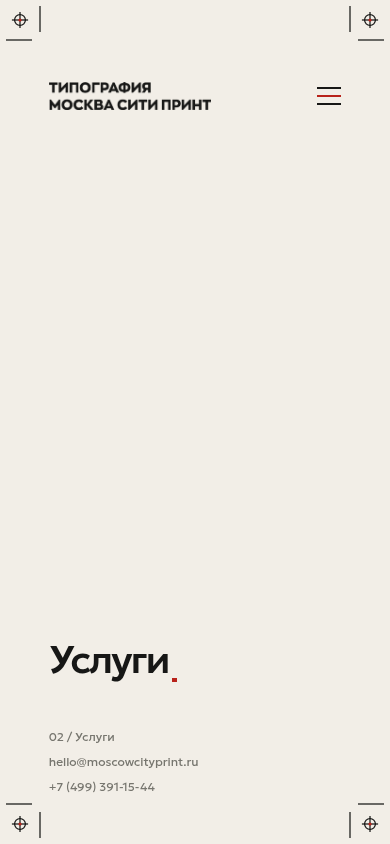
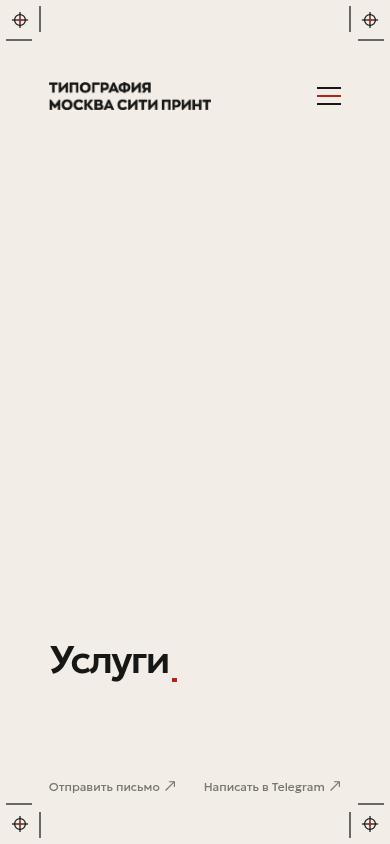
Preview final-word anchor, horizontal phone actions and lighter 1440 menu

Changed region(s): [[0.1231, 0.8626, 0.4923, 0.955], [0.6769, 0.9242, 0.8308, 0.955], [0.5231, 0.9242, 0.6462, 0.955]]

diff --git a/internal-stage-01/site-assets/assets/css/internal-screen.css b/internal-stage-01/site-assets/assets/css/internal-screen.css
@@ -21,12 +21,19 @@ body:has(.mcp-internal-screen){margin:0;background:#F2EEE7;color:#171716;font-fa
 .mcp-internal-dropdown{display:none}
 .mcp-internal-title-area{display:flex;align-items:flex-end;min-width:0;padding-block:80px 64px;container-type:inline-size}
 .mcp-internal-title{margin:0;font:500 clamp(39px,calc(75cqw / 11.59299),128px)/1.04 'Geologica',Arial,Helvetica,sans-serif;letter-spacing:-.05em;overflow-wrap:anywhere;max-width:100%}
+/* Keep the last word atomic; only words wider than the full title measure wrap inside. */
+[data-title-last-word]{display:inline-block;max-inline-size:100%;vertical-align:baseline}
 .mcp-internal-title-tail{position:relative;padding-inline-end:.215em;white-space:nowrap}
 /* One measured ink trim, expressed in em; no breakpoint-specific offsets. */
 .mcp-internal-accent{--title-ink-trim:0em;position:absolute;inset-inline-end:0;bottom:var(--title-ink-trim);display:block;width:.115em;height:.115em}
 .mcp-internal-square{display:block;flex:none;width:.115em;height:.115em;background:#B8221A}
 .mcp-internal-service{align-items:end;font-size:14px;line-height:1.25;font-weight:400;color:#77766F}
 .mcp-internal-service>*{min-width:0;overflow-wrap:anywhere}
+.mcp-internal-service-mobile{display:none}
+@media(1101px <= width < 1600px){
+ .mcp-internal-desktop-nav{column-gap:28px}
+ .mcp-internal-desktop-nav .mcp-internal-menu-item{font-size:15px;font-weight:400}
+}
 @media(min-width:1600px){.mcp-internal-logo{width:66.7808%}}
 @media(768px <= width <= 1100px){
  .mcp-internal-screen{--page-edge:clamp(56px,6.25vw,64px);--page-columns:3;--page-gap:24px}
@@ -50,7 +57,13 @@ body:has(.mcp-internal-screen){margin:0;background:#F2EEE7;color:#171716;font-fa
  .mcp-internal-dropdown{grid-column:2}
  .mcp-internal-dropdown summary{font-size:14px;gap:7px}
  .mcp-internal-title{font-size:clamp(39px,10.1vw,64px);letter-spacing:-.055em}
- .mcp-internal-service{row-gap:10px;font-size:12px}
+ .mcp-internal-service{font-size:12px;min-block-size:calc(3.75em + 20px)}
+ .mcp-internal-service-detail{display:none}
+ .mcp-internal-service-mobile{display:flex;align-self:end;align-items:baseline;justify-content:space-between;gap:8px;min-width:0;font-size:clamp(11.5px,3.077vw,12px)}
+ .mcp-internal-service-mobile a{display:inline-flex;align-items:baseline;gap:4px;white-space:nowrap}
+ .mcp-internal-service-mobile a span{font-size:1.15em;line-height:1}
+ .mcp-internal-service-mobile a:hover{color:#171716}
+ .mcp-internal-service-mobile a:hover span{color:#B8221A}
  .mcp-internal-title-area{padding-bottom:48px}
 }
 @media(max-width:374px){.mcp-internal-screen{--page-edge:48px;padding-top:78px}}

diff --git a/internal-stage-01/contacts.html b/internal-stage-01/contacts.html
@@ -85,9 +85,13 @@
     <h1 class="mcp-internal-title" id="mcp-internal-title"><span data-title-prefix></span><span data-title-last-word><span data-title-word-prefix>Контакт</span><span class="mcp-internal-title-tail"><span data-title-final>ы</span><span class="mcp-internal-accent" aria-hidden="true"><span class="mcp-internal-square"></span></span></span></span></h1>
   </div>
   <div class="mcp-internal-service mcp-internal-grid" aria-label="Служебная строка">
-    <span class="mcp-internal-section-label">05 / Контакты</span>
-    <a href="mailto:hello@moscowcityprint.ru">hello@moscowcityprint.ru</a>
-    <a href="tel:+74993911544">+7 (499) 391-15-44</a>
+    <span class="mcp-internal-section-label mcp-internal-service-detail">05 / Контакты</span>
+    <a class="mcp-internal-service-detail" href="mailto:hello@moscowcityprint.ru">hello@moscowcityprint.ru</a>
+    <a class="mcp-internal-service-detail" href="tel:+74993911544">+7 (499) 391-15-44</a>
+    <div class="mcp-internal-service-mobile">
+      <a href="mailto:hello@moscowcityprint.ru">Отправить письмо <span aria-hidden="true">↗</span></a>
+      <a href="https://t.me/moscowcityprint">Написать в Telegram <span aria-hidden="true">↗</span></a>
+    </div>
   </div>
 </section>
 <div class="mcp-inner-main"><div class="mcp-inner-fallback"><article class="mcp-page-content">
@@ -98,6 +102,6 @@
 <p>Я.Карты: <a href="https://yandex.ru/profile/1799094691?lang=ru">Карточка организации</a></p>
   </div>
 </article>
-</div></div></main><script src="site-assets/assets/js/internal-screen.js?v=727299a7f19e"></script>
+</div></div></main><script src="site-assets/assets/js/internal-screen.js?v=ae321fb97aaa"></script>
 <script src="site-assets/assets/js/site.js"></script>
 <script src="review-grid.js"></script></body></html>

diff --git a/internal-stage-01/docs.html b/internal-stage-01/docs.html
@@ -85,9 +85,13 @@
     <h1 class="mcp-internal-title" id="mcp-internal-title"><span data-title-prefix></span><span data-title-last-word><span data-title-word-prefix>Документ</span><span class="mcp-internal-title-tail"><span data-title-final>ы</span><span class="mcp-internal-accent" aria-hidden="true"><span class="mcp-internal-square"></span></span></span></span></h1>
   </div>
   <div class="mcp-internal-service mcp-internal-grid" aria-label="Служебная строка">
-    <span class="mcp-internal-section-label">04 / Документы</span>
-    <a href="mailto:hello@moscowcityprint.ru">hello@moscowcityprint.ru</a>
-    <a href="tel:+74993911544">+7 (499) 391-15-44</a>
+    <span class="mcp-internal-section-label mcp-internal-service-detail">04 / Документы</span>
+    <a class="mcp-internal-service-detail" href="mailto:hello@moscowcityprint.ru">hello@moscowcityprint.ru</a>
+    <a class="mcp-internal-service-detail" href="tel:+74993911544">+7 (499) 391-15-44</a>
+    <div class="mcp-internal-service-mobile">
+      <a href="mailto:hello@moscowcityprint.ru">Отправить письмо <span aria-hidden="true">↗</span></a>
+      <a href="https://t.me/moscowcityprint">Написать в Telegram <span aria-hidden="true">↗</span></a>
+    </div>
   </div>
 </section>
 <div class="mcp-inner-main"><div class="mcp-inner-fallback"><article class="mcp-page-content">
@@ -101,6 +105,6 @@
 </ul>
   </div>
 </article>
-</div></div></main><script src="site-assets/assets/js/internal-screen.js?v=727299a7f19e"></script>
+</div></div></main><script src="site-assets/assets/js/internal-screen.js?v=ae321fb97aaa"></script>
 <script src="site-assets/assets/js/site.js"></script>
 <script src="review-grid.js"></script></body></html>

diff --git a/internal-stage-01/products.html b/internal-stage-01/products.html
@@ -85,11 +85,15 @@
     <h1 class="mcp-internal-title" id="mcp-internal-title"><span data-title-prefix></span><span data-title-last-word><span data-title-word-prefix>Продукци</span><span class="mcp-internal-title-tail"><span data-title-final>я</span><span class="mcp-internal-accent" aria-hidden="true"><span class="mcp-internal-square"></span></span></span></span></h1>
   </div>
   <div class="mcp-internal-service mcp-internal-grid" aria-label="Служебная строка">
-    <span class="mcp-internal-section-label">01 / Продукция</span>
-    <a href="mailto:hello@moscowcityprint.ru">hello@moscowcityprint.ru</a>
-    <a href="tel:+74993911544">+7 (499) 391-15-44</a>
+    <span class="mcp-internal-section-label mcp-internal-service-detail">01 / Продукция</span>
+    <a class="mcp-internal-service-detail" href="mailto:hello@moscowcityprint.ru">hello@moscowcityprint.ru</a>
+    <a class="mcp-internal-service-detail" href="tel:+74993911544">+7 (499) 391-15-44</a>
+    <div class="mcp-internal-service-mobile">
+      <a href="mailto:hello@moscowcityprint.ru">Отправить письмо <span aria-hidden="true">↗</span></a>
+      <a href="https://t.me/moscowcityprint">Написать в Telegram <span aria-hidden="true">↗</span></a>
+    </div>
   </div>
 </section>
-</main><script src="site-assets/assets/js/internal-screen.js?v=727299a7f19e"></script>
+</main><script src="site-assets/assets/js/internal-screen.js?v=ae321fb97aaa"></script>
 <script src="site-assets/assets/js/site.js"></script>
 <script src="review-grid.js"></script></body></html>

diff --git a/internal-stage-01/services.html b/internal-stage-01/services.html
@@ -85,11 +85,15 @@
     <h1 class="mcp-internal-title" id="mcp-internal-title"><span data-title-prefix></span><span data-title-last-word><span data-title-word-prefix>Услуг</span><span class="mcp-internal-title-tail"><span data-title-final>и</span><span class="mcp-internal-accent" aria-hidden="true"><span class="mcp-internal-square"></span></span></span></span></h1>
   </div>
   <div class="mcp-internal-service mcp-internal-grid" aria-label="Служебная строка">
-    <span class="mcp-internal-section-label">02 / Услуги</span>
-    <a href="mailto:hello@moscowcityprint.ru">hello@moscowcityprint.ru</a>
-    <a href="tel:+74993911544">+7 (499) 391-15-44</a>
+    <span class="mcp-internal-section-label mcp-internal-service-detail">02 / Услуги</span>
+    <a class="mcp-internal-service-detail" href="mailto:hello@moscowcityprint.ru">hello@moscowcityprint.ru</a>
+    <a class="mcp-internal-service-detail" href="tel:+74993911544">+7 (499) 391-15-44</a>
+    <div class="mcp-internal-service-mobile">
+      <a href="mailto:hello@moscowcityprint.ru">Отправить письмо <span aria-hidden="true">↗</span></a>
+      <a href="https://t.me/moscowcityprint">Написать в Telegram <span aria-hidden="true">↗</span></a>
+    </div>
   </div>
 </section>
-</main><script src="site-assets/assets/js/internal-screen.js?v=727299a7f19e"></script>
+</main><script src="site-assets/assets/js/internal-screen.js?v=ae321fb97aaa"></script>
 <script src="site-assets/assets/js/site.js"></script>
 <script src="review-grid.js"></script></body></html>

diff --git a/internal-stage-01/gallery.html b/internal-stage-01/gallery.html
@@ -85,11 +85,15 @@
     <h1 class="mcp-internal-title" id="mcp-internal-title"><span data-title-prefix></span><span data-title-last-word><span data-title-word-prefix>Galler</span><span class="mcp-internal-title-tail"><span data-title-final>y</span><span class="mcp-internal-accent" aria-hidden="true"><span class="mcp-internal-square"></span></span></span></span></h1>
   </div>
   <div class="mcp-internal-service mcp-internal-grid" aria-label="Служебная строка">
-    <span class="mcp-internal-section-label">03 / Gallery</span>
-    <a href="mailto:hello@moscowcityprint.ru">hello@moscowcityprint.ru</a>
-    <a href="tel:+74993911544">+7 (499) 391-15-44</a>
+    <span class="mcp-internal-section-label mcp-internal-service-detail">03 / Gallery</span>
+    <a class="mcp-internal-service-detail" href="mailto:hello@moscowcityprint.ru">hello@moscowcityprint.ru</a>
+    <a class="mcp-internal-service-detail" href="tel:+74993911544">+7 (499) 391-15-44</a>
+    <div class="mcp-internal-service-mobile">
+      <a href="mailto:hello@moscowcityprint.ru">Отправить письмо <span aria-hidden="true">↗</span></a>
+      <a href="https://t.me/moscowcityprint">Написать в Telegram <span aria-hidden="true">↗</span></a>
+    </div>
   </div>
 </section>
-</main><script src="site-assets/assets/js/internal-screen.js?v=727299a7f19e"></script>
+</main><script src="site-assets/assets/js/internal-screen.js?v=ae321fb97aaa"></script>
 <script src="site-assets/assets/js/site.js"></script>
 <script src="review-grid.js"></script></body></html>

diff --git a/internal-stage-01/site-assets/assets/js/internal-screen.js b/internal-stage-01/site-assets/assets/js/internal-screen.js
@@ -10,7 +10,8 @@
   const last=glyph.getBoundingClientRect();
   const probe=document.createElement('span');probe.style.cssText='display:inline-block;width:0;height:0;padding:0;margin:0;vertical-align:baseline';
   final.append(probe);const baseline=probe.getBoundingClientRect().bottom;probe.remove();
-  let line='';const walker=document.createTreeWalker(title,NodeFilter.SHOW_TEXT);let node;
+  // Only the final word's visible fragment defines the accent ink edge.
+  let line='';const walker=document.createTreeWalker(title.querySelector('[data-title-last-word]'),NodeFilter.SHOW_TEXT);let node;
   while((node=walker.nextNode())){
    for(let i=0;i<node.length;){const text=String.fromCodePoint(node.textContent.codePointAt(i));const range=document.createRange();range.setStart(node,i);range.setEnd(node,i+text.length);const rect=range.getBoundingClientRect();if(Math.abs(rect.top-last.top)<1)line+=text;i+=text.length;}
   }
